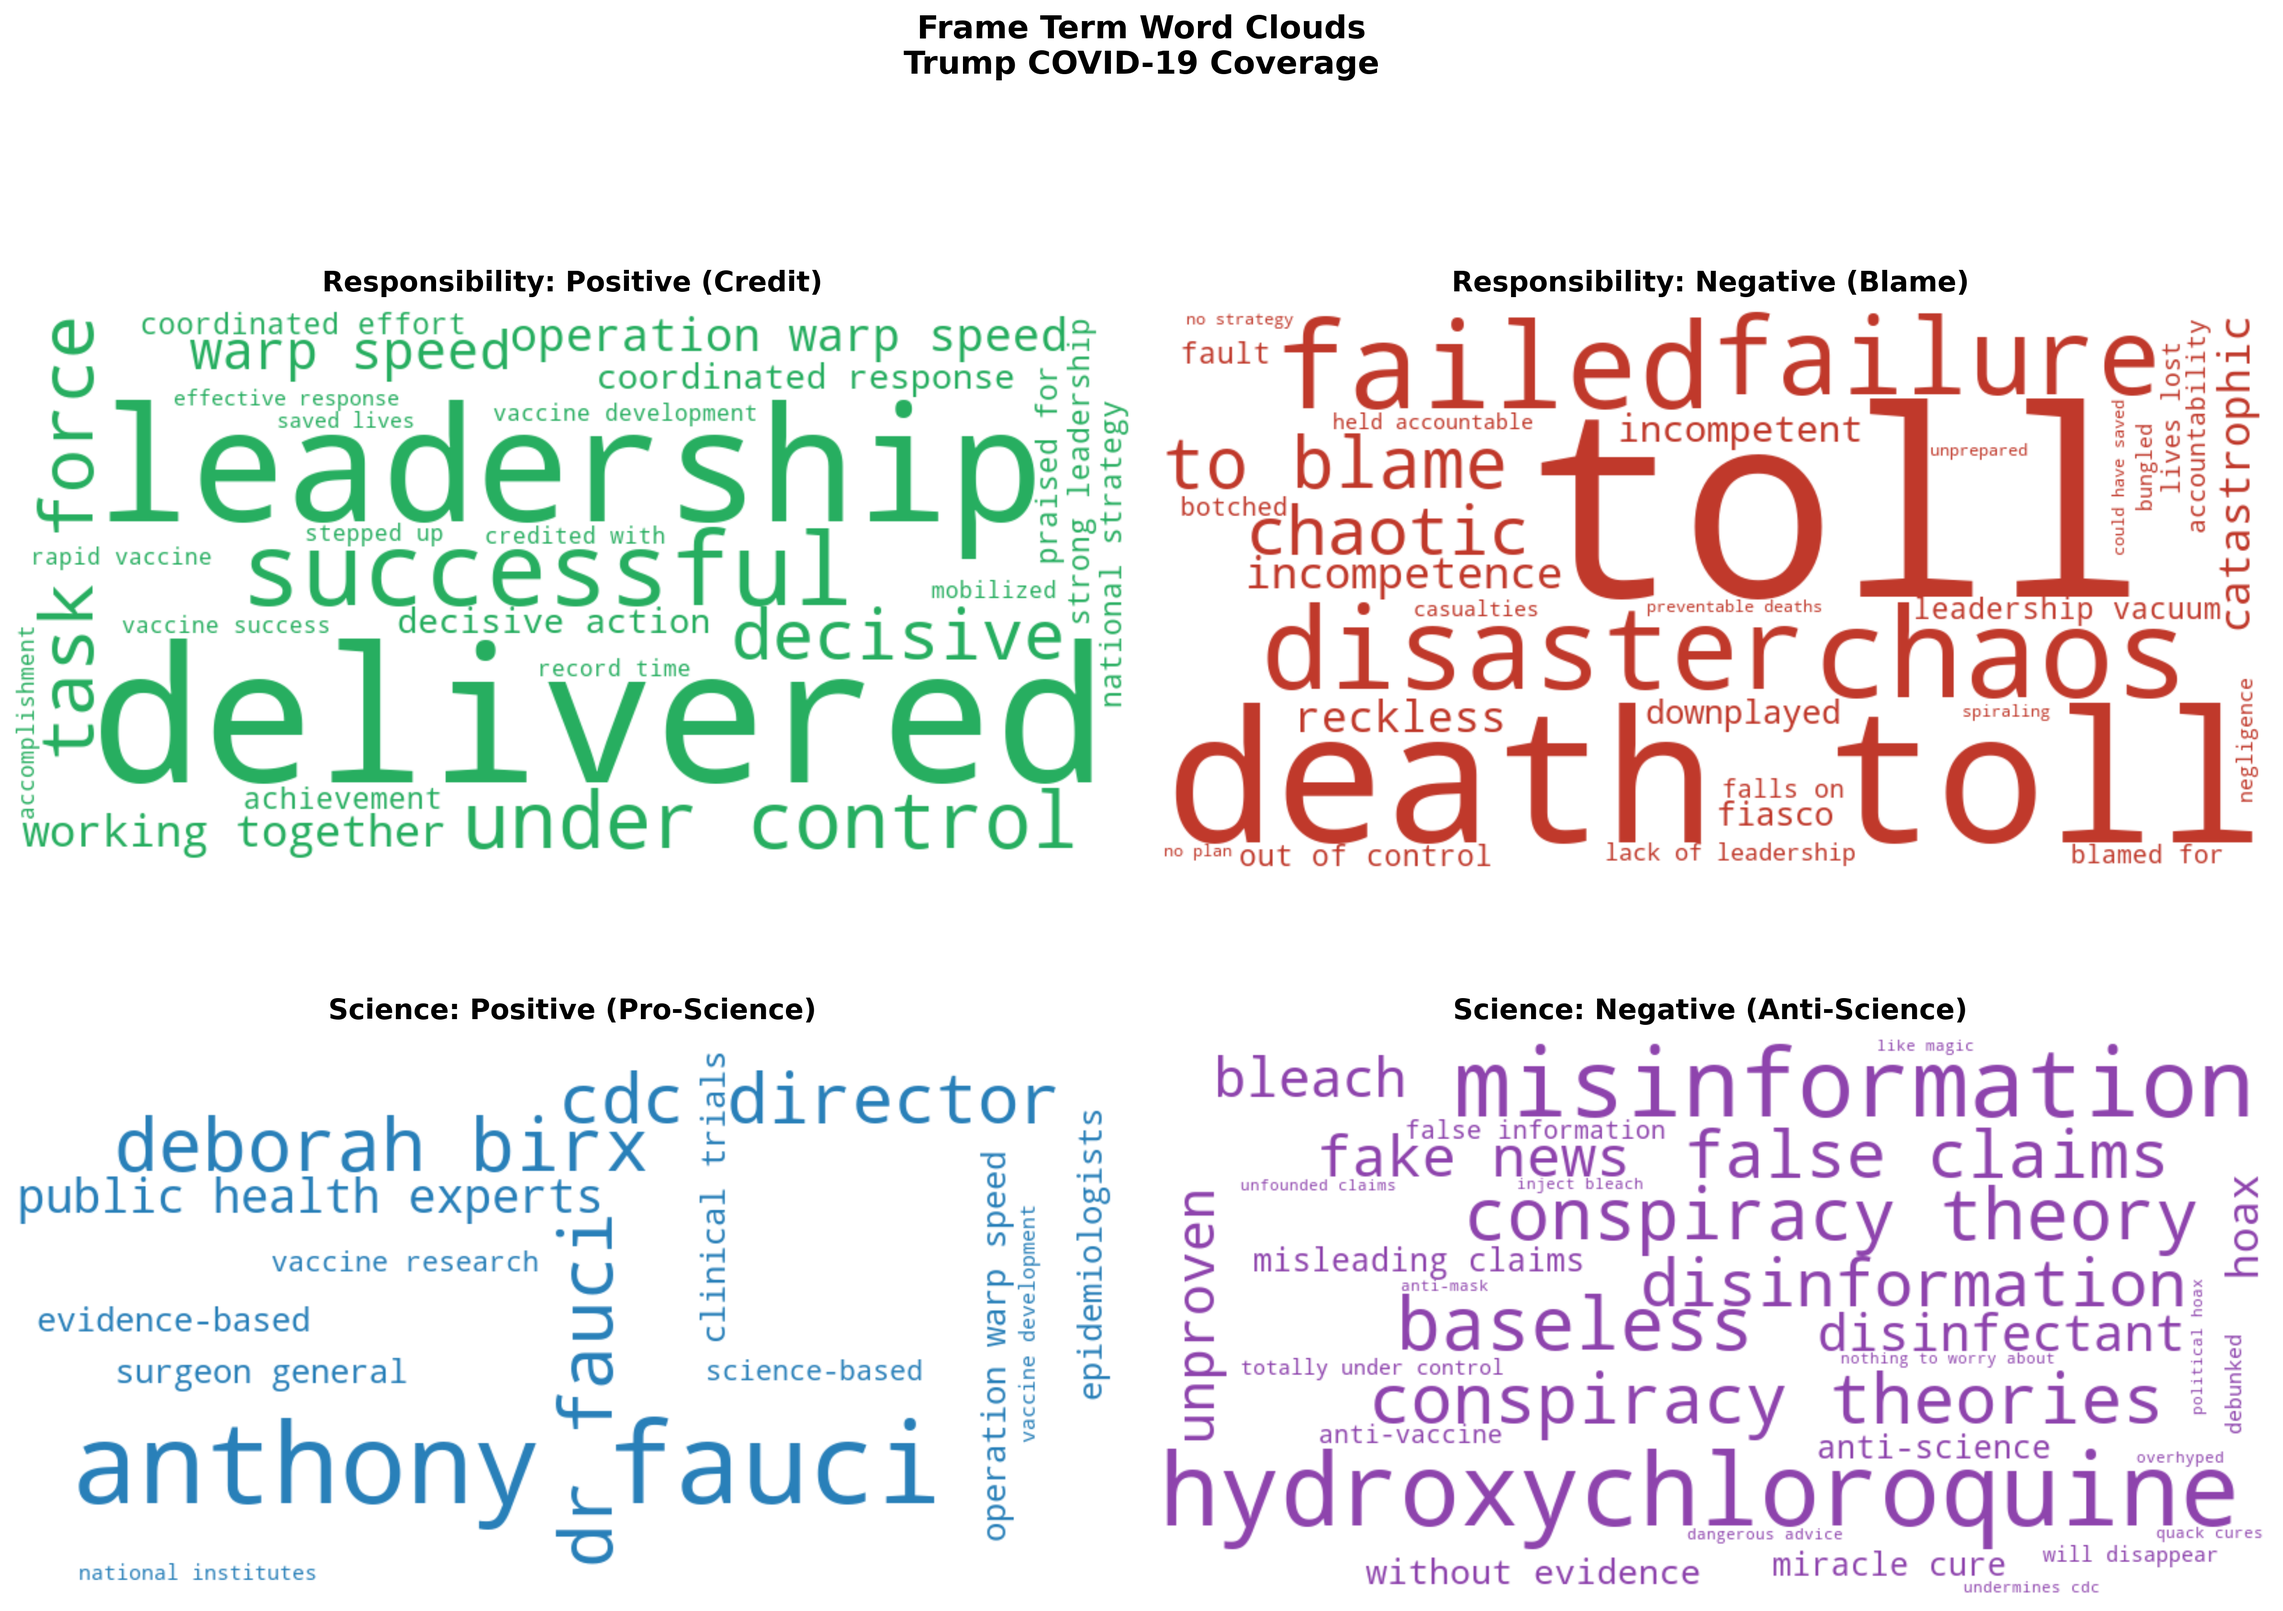
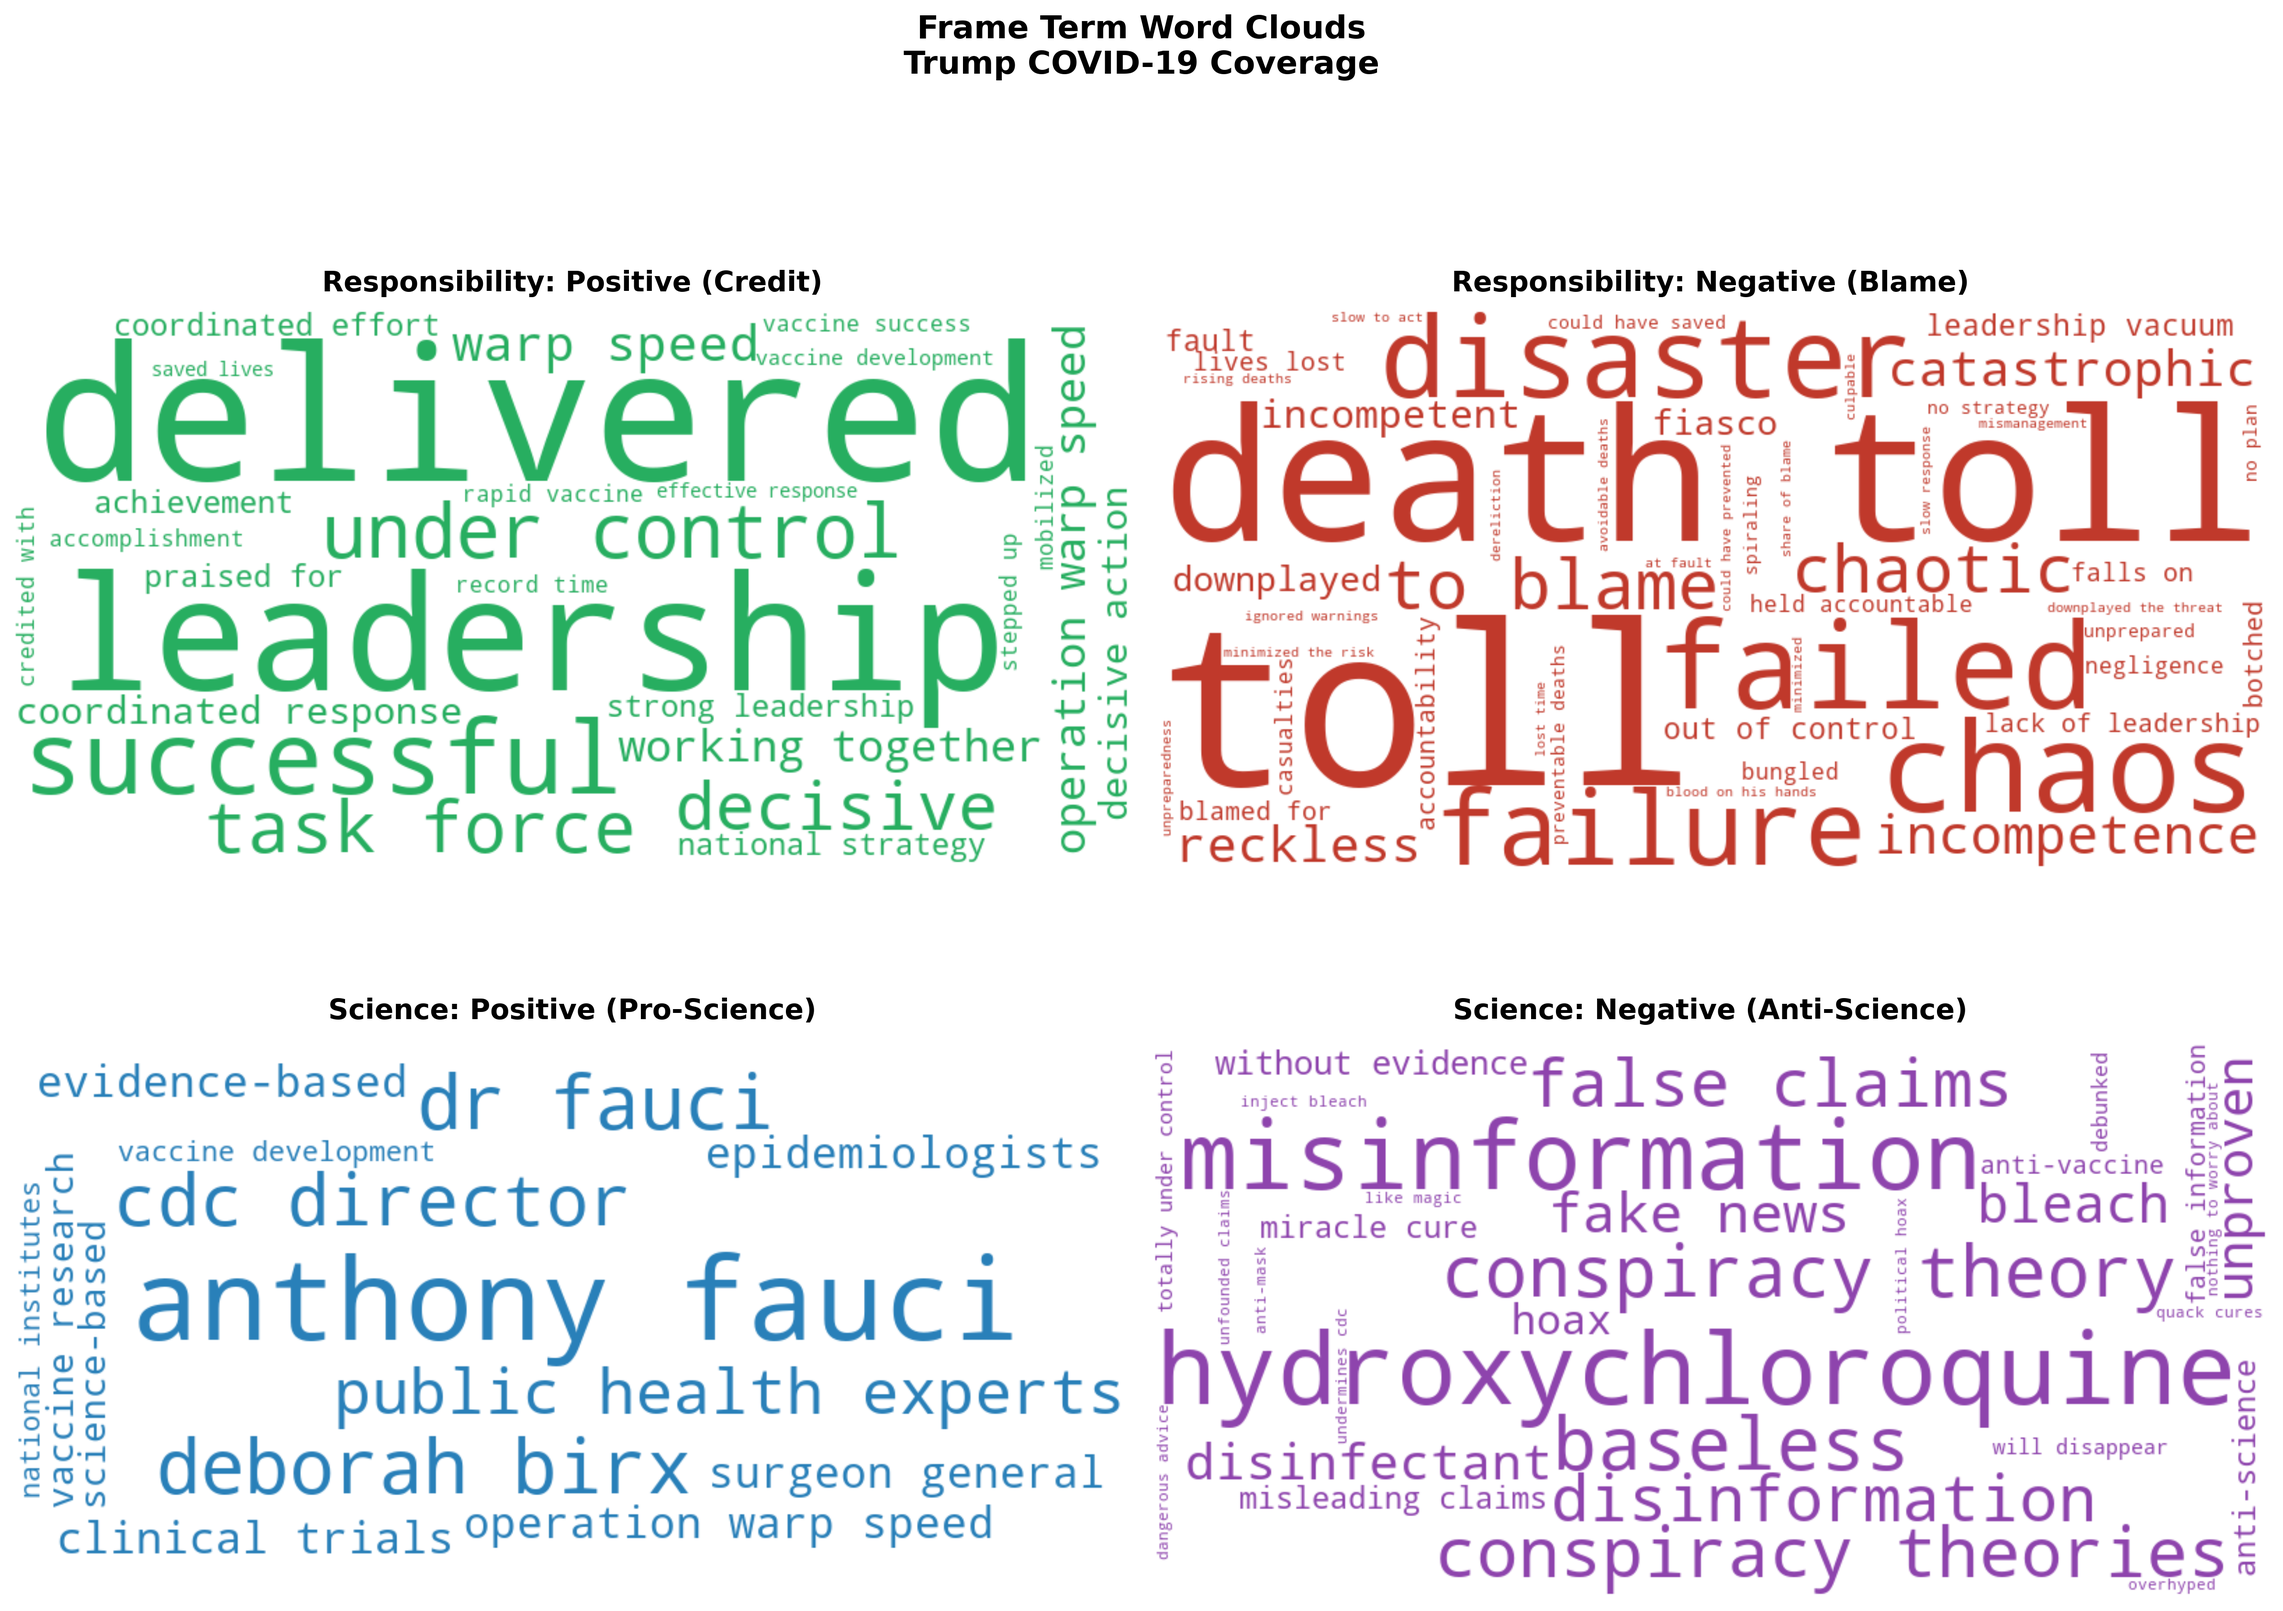
Add outlet-specific word cloud visualizations (NYT vs Guardian)
- Add analyze_corpus_by_outlet() method to analyze terms separately per outlet
- Add plot_word_clouds_by_outlet() method for side-by-side outlet comparison
- Generate new word_clouds_by_outlet.png showing NYT vs Guardian framing
- Update run_network_analysis() to include outlet-specific analysis

Changed region(s): [[0.0, 0.1871, 0.9996, 0.5613], [0.0, 0.6549, 0.9996, 0.9979]]

diff --git a/src/frame_network_visualization.py b/src/frame_network_visualization.py
@@ -148,6 +148,39 @@ class FrameTermAnalyzer:
             category: counter.most_common(n)
             for category, counter in term_freq.items()
         }
+    
+    def analyze_corpus_by_outlet(self, df: pd.DataFrame) -> Dict[str, Dict]:
+        """
+        Analyze term frequencies separately for each outlet (NYT vs Guardian).
+        
+        Returns:
+            Dictionary with outlet names as keys, each containing term_freq dict
+        """
+        results = {}
+        
+        for outlet in df['outlet'].unique():
+            outlet_df = df[df['outlet'] == outlet]
+            print(f"\nAnalyzing {outlet} ({len(outlet_df)} articles)...")
+            
+            term_freq = {
+                'resp_pos': Counter(),
+                'resp_neg': Counter(),
+                'sci_pos': Counter(),
+                'sci_neg': Counter()
+            }
+            
+            for idx, row in outlet_df.iterrows():
+                text = row['text']
+                terms = self.extract_terms_from_text(text)
+                
+                for category, term_list in terms.items():
+                    for term in term_list:
+                        term_freq[category][term] += 1
+            
+            results[outlet] = {'term_freq': term_freq}
+            print(f"  ✓ {outlet} analysis complete!")
+        
+        return results
 
 
 # ============================================================================
@@ -321,6 +354,89 @@ class FrameVisualization:
         
         if save:
             path = self.output_dir / 'word_clouds.png'
+            plt.savefig(path, dpi=300, bbox_inches='tight', facecolor='white')
+            print(f"✓ Saved: {path}")
+        
+        plt.show()
+    
+    def plot_word_clouds_by_outlet(self, outlet_results: Dict[str, Dict], save: bool = True):
+        """
+        Create word clouds for each outlet separately.
+        
+        Args:
+            outlet_results: Dictionary with outlet names as keys, containing term_freq
+        """
+        import matplotlib.pyplot as plt
+        from wordcloud import WordCloud
+        
+        # Define colors for each category
+        category_colors = {
+            'resp_pos': '#27ae60',  # Green - Credit
+            'resp_neg': '#c0392b',  # Red - Blame
+            'sci_pos': '#2980b9',   # Blue - Pro-Science
+            'sci_neg': '#8e44ad'    # Purple - Anti-Science
+        }
+        
+        category_titles = {
+            'resp_pos': 'Responsibility+\n(Credit)',
+            'resp_neg': 'Responsibility-\n(Blame)',
+            'sci_pos': 'Science+\n(Pro-Science)',
+            'sci_neg': 'Science-\n(Anti-Science)'
+        }
+        
+        outlets = list(outlet_results.keys())
+        n_outlets = len(outlets)
+        
+        # Create figure: rows = outlets, cols = 4 categories
+        fig, axes = plt.subplots(n_outlets, 4, figsize=(20, 6 * n_outlets))
+        
+        # Handle single outlet case
+        if n_outlets == 1:
+            axes = axes.reshape(1, -1)
+        
+        for row_idx, outlet in enumerate(outlets):
+            term_freq = outlet_results[outlet]['term_freq']
+            
+            for col_idx, (category, color) in enumerate(category_colors.items()):
+                ax = axes[row_idx, col_idx]
+                freq_dict = dict(term_freq[category])
+                
+                if freq_dict:
+                    # Create color function with closure to capture current color
+                    def make_color_func(c):
+                        return lambda *args, **kwargs: c
+                    
+                    wc = WordCloud(
+                        width=600, height=400,
+                        background_color='white',
+                        color_func=make_color_func(color),
+                        max_words=40,
+                        min_font_size=8,
+                        prefer_horizontal=0.7
+                    ).generate_from_frequencies(freq_dict)
+                    
+                    ax.imshow(wc, interpolation='bilinear')
+                else:
+                    ax.text(0.5, 0.5, 'No terms found', ha='center', va='center', 
+                           fontsize=12, color='gray')
+                
+                ax.axis('off')
+                
+                # Add column titles on first row
+                if row_idx == 0:
+                    ax.set_title(category_titles[category], fontsize=12, fontweight='bold', pad=10)
+            
+            # Add outlet label on left side
+            axes[row_idx, 0].text(-0.15, 0.5, outlet.upper(), transform=axes[row_idx, 0].transAxes,
+                                  fontsize=16, fontweight='bold', va='center', ha='right',
+                                  rotation=90)
+        
+        plt.suptitle('Frame Term Word Clouds by Outlet\nTrump COVID-19 Coverage: NYT vs. Guardian', 
+                    fontsize=18, fontweight='bold', y=0.98)
+        plt.tight_layout()
+        
+        if save:
+            path = self.output_dir / 'word_clouds_by_outlet.png'
             plt.savefig(path, dpi=300, bbox_inches='tight', facecolor='white')
             print(f"✓ Saved: {path}")
         
@@ -730,23 +846,33 @@ def run_network_analysis(data_path: str = None):
     project_root = Path(__file__).parent.parent
     viz = FrameVisualization(output_dir=str(project_root / 'results'))
     
-    # Word clouds
-    print("\n1. Creating word clouds...")
+    # Word clouds (combined)
+    print("\n1. Creating combined word clouds...")
     try:
         viz.plot_word_clouds(results['term_freq'])
     except ImportError:
         print("   Note: Install 'wordcloud' package for word clouds: pip install wordcloud")
     
+    # Word clouds by outlet (NYT vs Guardian)
+    print("\n2. Creating word clouds by outlet (NYT vs Guardian)...")
+    try:
+        outlet_results = analyzer.analyze_corpus_by_outlet(df)
+        viz.plot_word_clouds_by_outlet(outlet_results)
+    except ImportError:
+        print("   Note: Install 'wordcloud' package for word clouds: pip install wordcloud")
+    except Exception as e:
+        print(f"   Warning: Could not create outlet word clouds: {e}")
+    
     # Top terms bar chart
-    print("\n2. Creating top terms frequency chart...")
+    print("\n3. Creating top terms frequency chart...")
     viz.plot_top_terms_bar(results['term_freq'])
     
     # Cross-frame network
-    print("\n3. Creating cross-frame network...")
+    print("\n4. Creating cross-frame network...")
     viz.plot_cross_frame_network(results['cooccur_cross_frame'], min_weight=2)
     
     # Full network
-    print("\n4. Creating full frame network...")
+    print("\n5. Creating full frame network...")
     G = viz.plot_full_network(results, min_weight=2)
     
     # Network statistics
